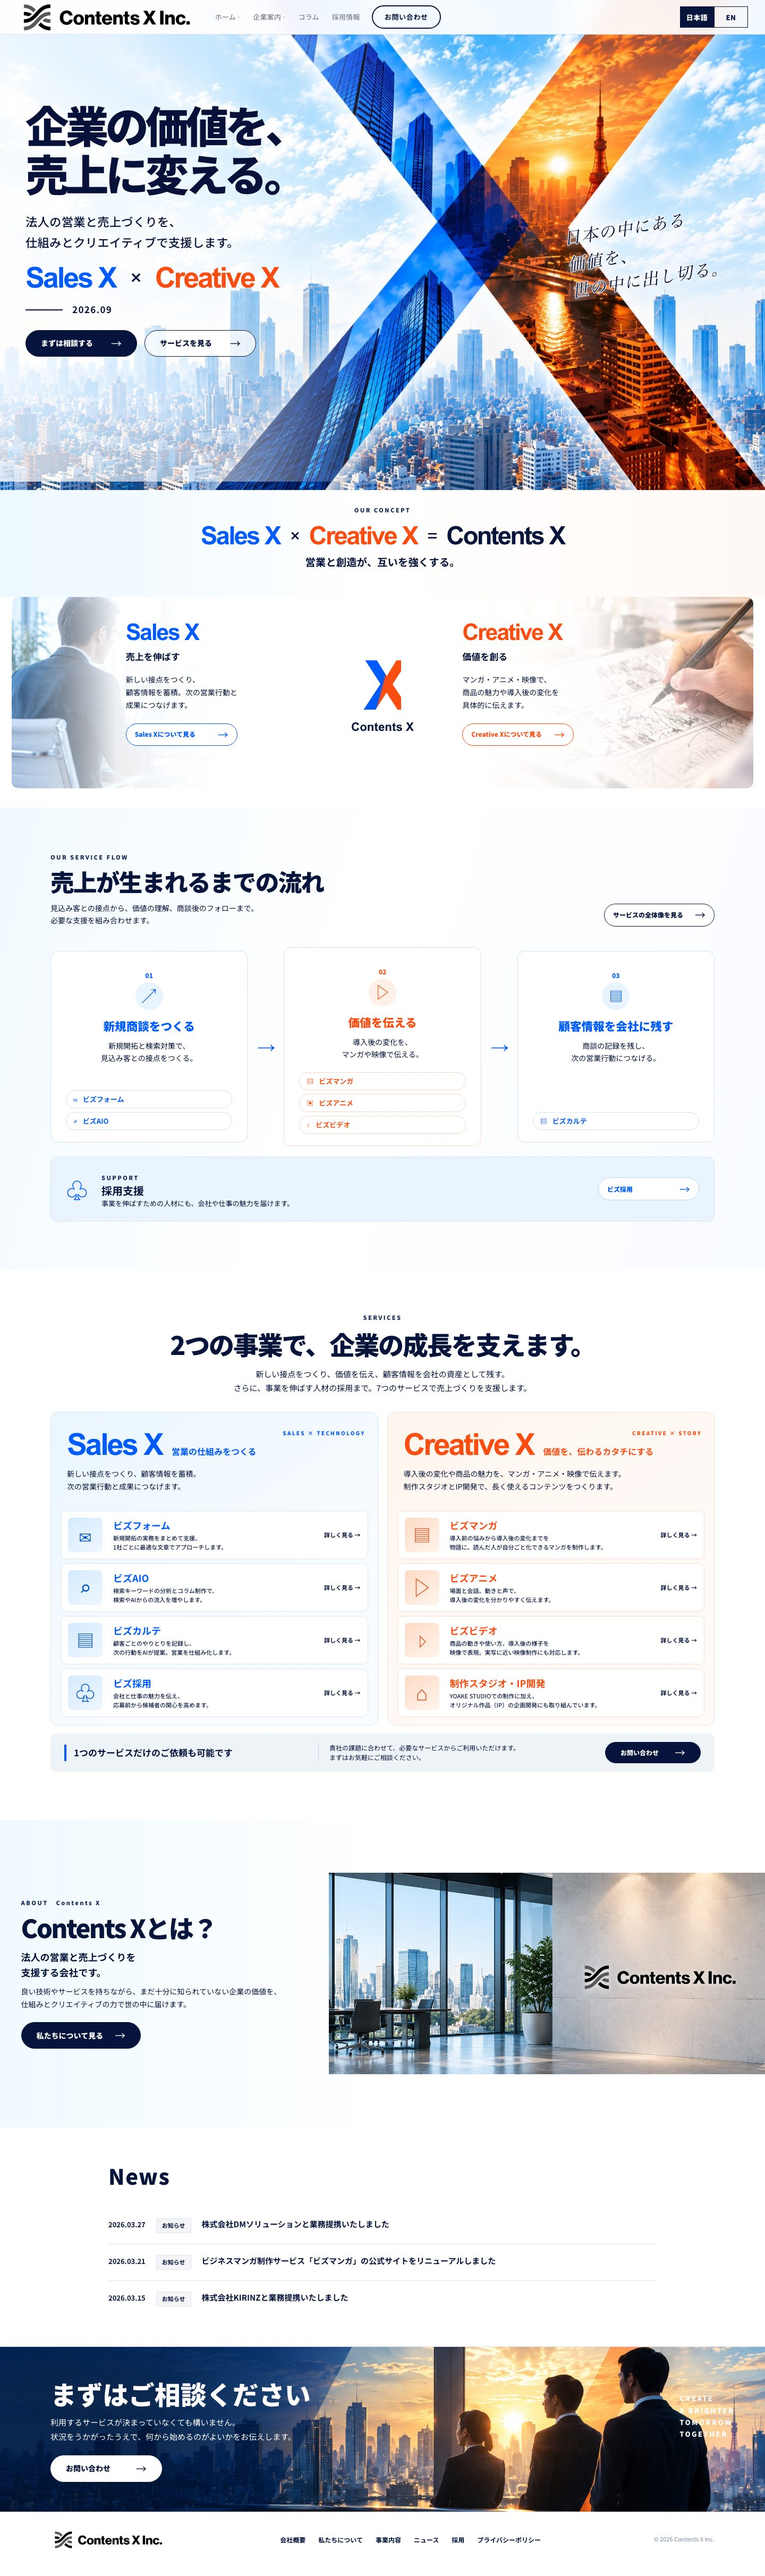
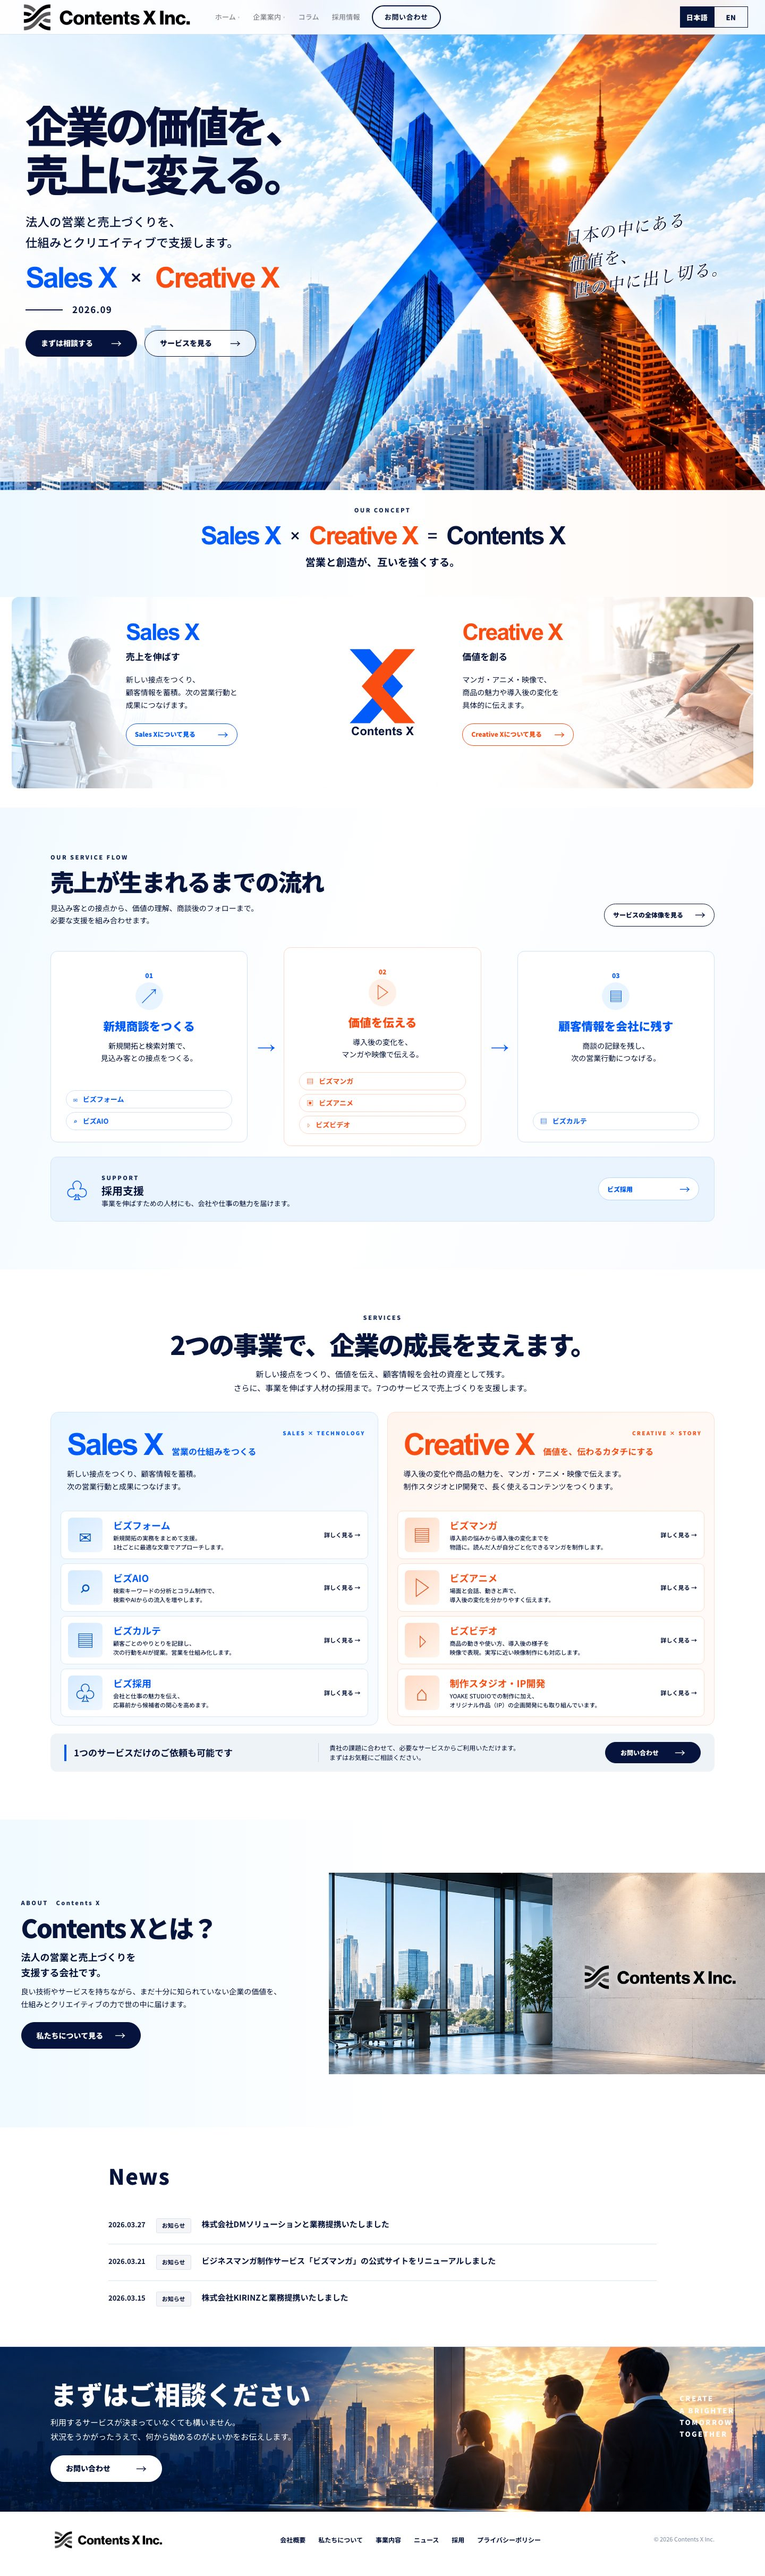
fix: #057 事業写真と中央Xの見切れを解消

Changed region(s): [[0.8125, 0.2181, 1.0, 0.3116], [0.0, 0.2181, 0.1562, 0.3116], [0.4688, 0.2493, 0.5312, 0.2804]]

diff --git a/css/home-2026.css b/css/home-2026.css
@@ -47,9 +47,9 @@ html[lang="en"] .cxh-hero h1 { font-size:clamp(40px,5vw,72px); letter-spacing:-.
 .cxh-pillar-photo { position:absolute; inset:0; z-index:-2; background-size:cover; background-repeat:no-repeat; transition:transform 1.1s cubic-bezier(.2,.8,.2,1); }
 .cxh-pillar:hover .cxh-pillar-photo { transform:scale(1.045); }
 .cxh-pillar-sales { background:#f4faff; }
-.cxh-pillar-sales .cxh-pillar-photo { background-image:url('/material/home-2026/sales.jpg'); background-position:left center; }
+.cxh-pillar-sales .cxh-pillar-photo { background-image:url('/material/home-2026/sales-safe.jpg'); background-position:left center; }
 .cxh-pillar-creative { background:#fff7f2; }
-.cxh-pillar-creative .cxh-pillar-photo { background-image:url('/material/home-2026/creative.jpg'); background-position:right center; }
+.cxh-pillar-creative .cxh-pillar-photo { background-image:url('/material/home-2026/creative-safe.jpg'); background-position:right center; }
 .cxh-pillar::before { content:''; position:absolute; inset:0; z-index:-1; pointer-events:none; }
 .cxh-pillar-sales::before { background:linear-gradient(90deg,transparent 0%,rgba(255,255,255,.92) 33%,#fff 70%); }
 .cxh-pillar-creative::before { background:linear-gradient(90deg,#fff 0%,rgba(255,255,255,.92) 50%,transparent 100%); }
@@ -63,7 +63,7 @@ html[lang="en"] .cxh-hero h1 { font-size:clamp(40px,5vw,72px); letter-spacing:-.
 .cxh-pillar-sales .cxh-pill-link { color:#005bfa; }
 .cxh-pillar-creative .cxh-pill-link { color:#fa4d12; }
 .cxh-mark { position:relative; z-index:2; display:flex; flex-direction:column; align-items:center; min-width:0; color:#07143b; font-family:Arial,sans-serif; font-size:clamp(18px,1.55vw,24px); font-weight:900; text-align:center; line-height:1.1; white-space:nowrap; pointer-events:none; }
-.cxh-mark-x { display:block; width:max-content; font-size:clamp(90px,9vw,142px); font-weight:900; line-height:1; letter-spacing:-.12em; background:linear-gradient(105deg,#005bfa 0%,#005bfa 48%,#fa4d12 52%,#fa4d12 100%); color:transparent; -webkit-background-clip:text; background-clip:text; }
+.cxh-mark-x { display:block; width:clamp(90px,9vw,142px); height:auto; overflow:visible; }
 
 /* Flow */
 .cxh-flow { padding:85px 0 90px; background:linear-gradient(105deg,#f2faff,#fff 46%,#f8fbff); }
@@ -177,7 +177,7 @@ html[lang="en"] .cxh-hero h1 { font-size:clamp(40px,5vw,72px); letter-spacing:-.
   .cxh-pillar-copy { width:56%; padding:37px 24px; }
   .cxh-pillar-sales .cxh-pillar-copy { margin-left:31%; }
   .cxh-mark { flex-direction:row; justify-content:center; gap:12px; padding:15px 0; font-size:20px; }
-  .cxh-mark-x { font-size:56px; }
+  .cxh-mark-x { width:56px; }
   .cxh-service-item { grid-template-columns:54px minmax(0,1fr); }
   .cxh-service-icon { width:50px; height:50px; font-size:29px; }
   .cxh-service-item em { grid-column:2; text-align:right; }
@@ -219,7 +219,7 @@ html[lang="en"] .cxh-hero h1 { font-size:clamp(40px,5vw,72px); letter-spacing:-.
   .cxh-pillar p { margin-top:12px; font-size:14px; }
   .cxh-pill-link { display:flex; width:100%; margin-top:18px; min-height:44px; }
   .cxh-mark { padding:20px 0; }
-  .cxh-mark-x { font-size:50px; }
+  .cxh-mark-x { width:50px; }
   .cxh-flow { padding:64px 0; }
   .cxh-section-head { display:block; text-align:center; }
   .cxh-section-head h2 { font-size:clamp(26px,6.8vw,39px); }

diff --git a/index.html b/index.html
@@ -266,7 +266,7 @@
           <a class="cxh-pill-link" href="/services/#list-group-sales"><span data-ja="Sales Xについて見る" data-en="Explore Sales X">Sales Xについて見る</span><span aria-hidden="true">→</span></a>
         </div>
       </div>
-      <div class="cxh-mark" aria-label="Contents X"><span class="cxh-mark-x" aria-hidden="true">X</span><span>Contents X</span></div>
+      <div class="cxh-mark" aria-label="Contents X"><svg class="cxh-mark-x" viewBox="0 0 160 180" aria-hidden="true" focusable="false"><path fill="#005bfa" d="M4 4h47l77 86-77 86H4l77-86z"/><path fill="#fa4d12" d="M109 4h47L79 90l77 86h-47L32 90z"/></svg><span>Contents X</span></div>
       <div class="cxh-pillar cxh-pillar-creative" data-cxh-reveal>
         <div class="cxh-pillar-photo" data-cxh-curtain aria-hidden="true"></div>
         <div class="cxh-pillar-copy">

diff --git a/SPEC.md b/SPEC.md
@@ -43,9 +43,9 @@ contact フォーム送信時にメッセージ末尾にトラッキング情報
 - デザイン基準: `/Users/hirasawa4323/Documents/contentX/デザイン案画像/会社HP/TOP確定/分析出力 1〜14.png`。奇数=PC、偶数=SP、番号順=ページ上から下。ヘッダーは既存HTML/CSS/JSを流用し、お知らせセクションのマークアップと `wp-api.js` による更新も維持。
 - 構成: Hero → コンセプト → Sales X / Creative X → 売上が生まれるまでの流れ → サービス一覧 → Contents Xとは → News → 相談CTA → フッター。旧ロゴカルーセル・新作情報・制作事例モーダル・旧Hero OPはトップから撤去。新作情報へのヘッダーメニューはビズマンガのビズ書庫へ移動する。
 - 白・無彩色を土台に、画像内の青とオレンジをSales X / Creative Xの識別色として使用。旧マゼンタテーマはトップで使わない（`body[data-theme="neutral"]`）。他ページのテーマは変更しない。
-- 素材: `material/home-2026/{hero,sales,creative,about,contact}.jpg`。ユーザー指定デザインを参照に生成した画像で、文字とロゴは画像へ焼き込まずHTMLで重ねる。生成したオフィスはイメージ画像として扱う。
+- 素材: `material/home-2026/{hero,sales,creative,about,contact}.jpg` と事業紹介用の `sales-safe.jpg` / `creative-safe.jpg`。ユーザー指定デザインを参照に生成した画像で、文字とロゴは画像へ焼き込まずHTMLで重ねる。事業紹介の元画像は被写体が素材の端で切れていたため、余白を設けて再生成した `*-safe.jpg` を表示に使用する。生成したオフィスはイメージ画像として扱う。
 - モーション: `js/home-2026.js` と `css/home-2026.css`。ヒーロー文字の登場、スクロールでの段階的な表示、画像の左→右ワイプ（Sales X / Creative X の写真にも適用）、カード・ボタンのホバー移動。`prefers-reduced-motion: reduce` では瞬時表示。JS不在でも内容は表示する。ワイプ要素自身を幅0にクリップすると交差監視できないため、親コンテナを監視して子要素を表示する。
-- ヒーロー右側の理念コピーは、都市画像の明暗の上でも読めるよう紺色の字に白い縁と淡い白い影を重ねる。事業紹介の中央「X / Contents X」は独立したグリッド列に配置して左右の文言・CTAに重ならないようにする。写真は左カードを左寄せ、右カードを右寄せとして人物・作画の手を表示する。
+- ヒーロー右側の理念コピーは、都市画像の明暗の上でも読めるよう紺色の字に白い縁と淡い白い影を重ねる。事業紹介の中央「X / Contents X」は独立したグリッド列に配置して左右の文言・CTAに重ならないようにし、Xは青とオレンジのSVGで四辺が見切れない形に描画する。写真は左カードを左寄せ、右カードを右寄せとして、余白付き素材の人物と作画の手を表示する。
 - レスポンシブ: 768px以下でヒーローを縦構成、事業カードとサービス欄を1列にする。事業紹介は1100px以下で縦並びに切り替える。文字は `clamp()` で連続スケール。320/390/412/448/640/768/1024/1100/1101/1280/1440/1920pxの横溢れ・事業カード内の文字収まりをブラウザ確認。
 - リンク: 総合ページは `/services/`（Issue #20の別制作）。ビズフォーム `https://bizform.contentsx.jp/`、ビズマンガ `https://bizmanga.contentsx.jp/`、ビズ採用 `https://ichioshi.contentsx.jp/` は公開先へ直リンク。外部URLが未確定のサービスはIssue #20で用意された `/services/{slug}/`、Sales X / Creative Xの紹介は `/services/#list-group-{sales|creative}` に向ける。制作スタジオ・IP開発は総合ページへ。Issue #20のページが本番公開されるまでこれらの内部リンクは到達先未実装。
 - 旧トップ用JS（`script.js`、`hero-new.js`、`hero-fx.js`、`cta.js` 等）はトップでは読み込まず、他ページ用の実装とファイルは残す。`i18n.js` → `nav.js` の読込順を維持。
